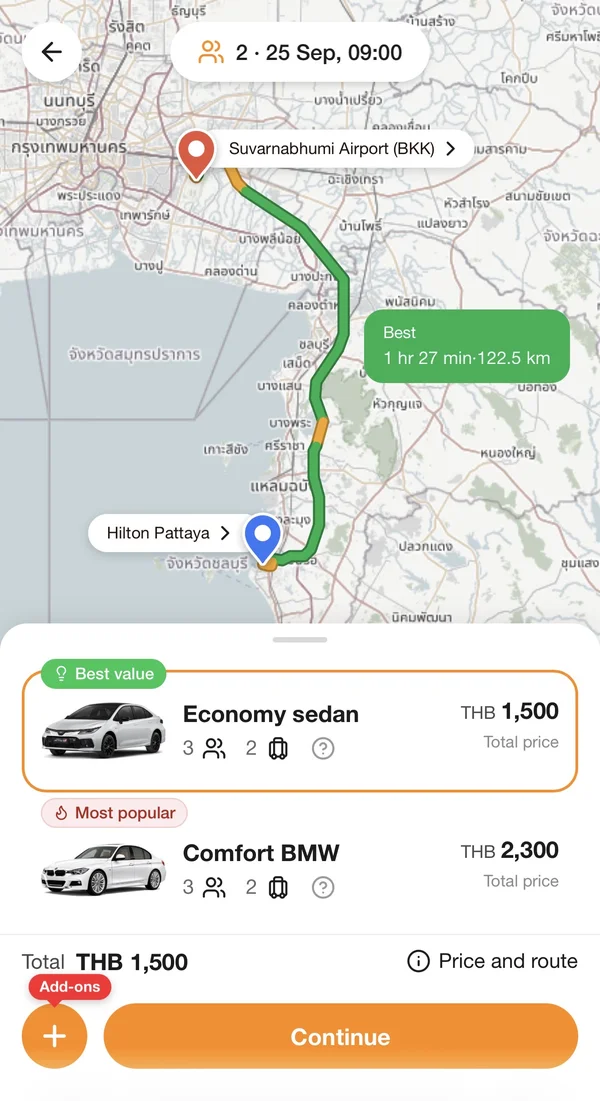
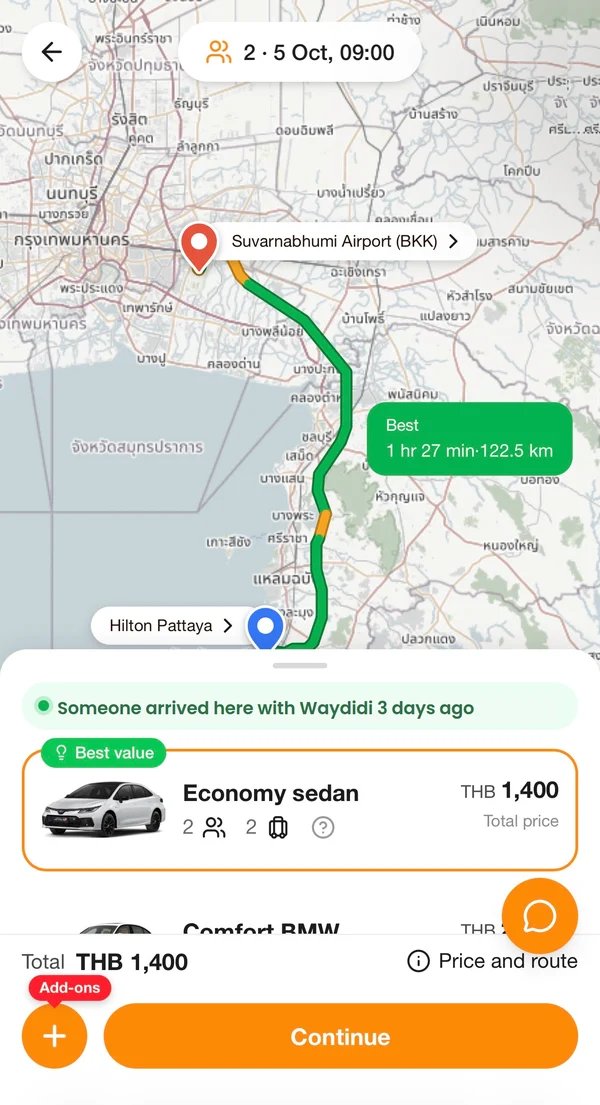
How it works: new Suvarnabhumi to Hilton Pattaya screenshot
Claude-Session: https://claude.ai/code/session_01H5rMrsGfNEgfVtcBM6ruBL

diff --git a/components/home/how-it-works.tsx b/components/home/how-it-works.tsx
@@ -7,7 +7,7 @@ import type { MessageKey } from "@/lib/i18n";
 // "How it works": three illustrated steps in a free horizontal scroll (no snapping).
 function BookVisual() {
   // Screenshot of Waydidi's choose-car screen, shown as a phone screen.
-  return <Image src="/how-it-works-book.webp" alt="Waydidi car choice screen: Suvarnabhumi Airport to Hilton Pattaya with Economy sedan THB 1,500 selected" width={600} height={1101} unoptimized className="absolute left-1/2 top-[4%] h-[92%] w-auto max-w-none -translate-x-1/2 rounded-[22px] border-4 border-white shadow-[0_14px_30px_rgba(0,0,0,.14)]" />;
+  return <Image src="/how-it-works-book.webp" alt="Waydidi car choice screen: Suvarnabhumi Airport to Hilton Pattaya with Economy sedan THB 1,400 selected" width={600} height={1105} unoptimized className="absolute left-1/2 top-[4%] h-[92%] w-auto max-w-none -translate-x-1/2 rounded-[22px] border-4 border-white shadow-[0_14px_30px_rgba(0,0,0,.14)]" />;
 }
 
 const BOARD = [
